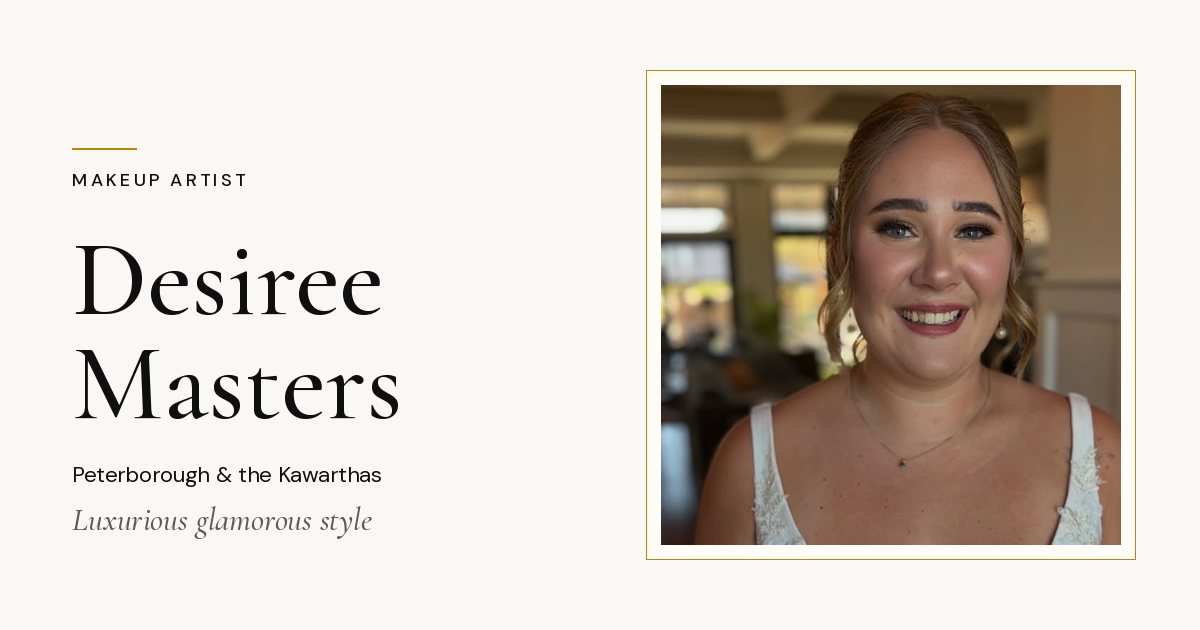
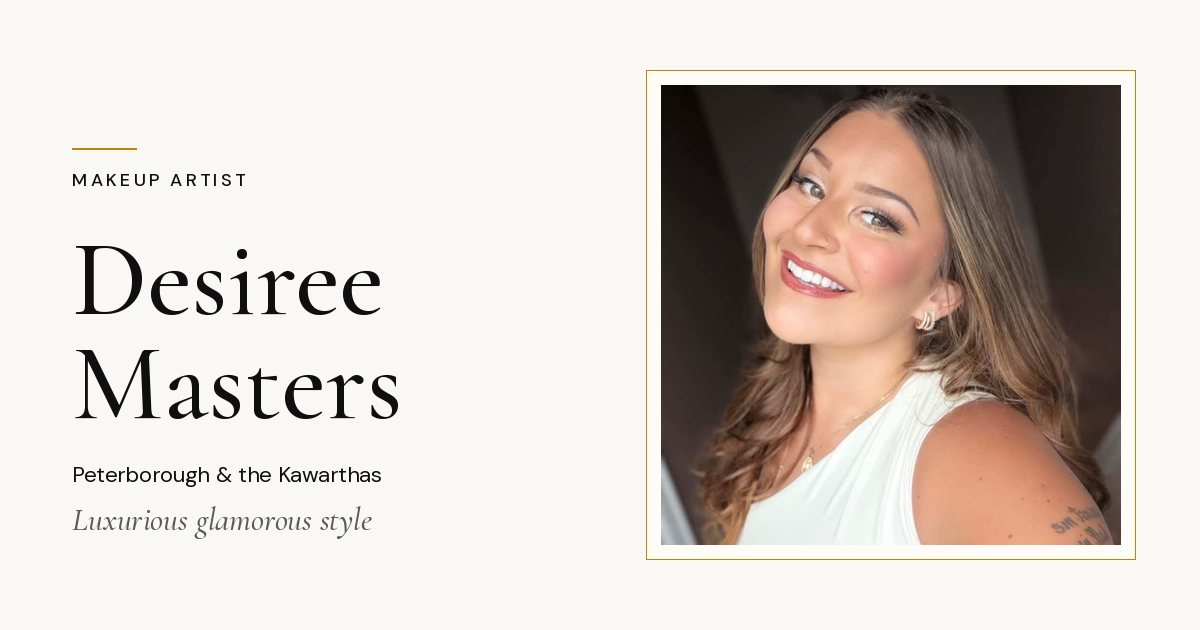
Show every Desiree demo photo whole, and use her portrait in the hero. (#43)
Gallery frames were letting side-by-side Instagram crops overflow the phone, so the outer face was cut off. Images now keep their real shape inside the gold frame, and the hero, About section, and link preview use Desiree's own portrait.

Changed region(s): [[0.5242, 0.1206, 0.9558, 0.8746]]

diff --git a/desiree-masters-mua-demo/index.html b/desiree-masters-mua-demo/index.html
@@ -12,7 +12,7 @@
   <link rel="apple-touch-icon" href="assets/apple-touch.png">
   <link rel="preload" as="font" href="assets/fonts/cormorant.woff2" type="font/woff2" crossorigin>
   <link rel="preload" as="font" href="assets/fonts/dm-sans.woff2" type="font/woff2" crossorigin>
-  <link rel="preload" as="image" href="assets/abbie.webp" type="image/webp" fetchpriority="high">
+  <link rel="preload" as="image" href="assets/desiree.webp" type="image/webp" fetchpriority="high">
   <meta property="og:title" content="Desiree Masters Makeup Artist">
   <meta property="og:description" content="Luxurious glamorous style for bridal, prom, photo shoots, and special events. Peterborough and the Kawarthas. Preview only.">
   <meta property="og:type" content="website">
@@ -20,7 +20,7 @@
   <meta property="og:image" content="https://use1app.com/desiree-masters-mua-demo/assets/og.jpg">
   <meta property="og:image:width" content="1200">
   <meta property="og:image:height" content="630">
-  <meta property="og:image:alt" content="Desiree Masters Makeup Artist. A framed bridal portrait on an ivory background.">
+  <meta property="og:image:alt" content="Desiree Masters, makeup artist, in a framed portrait on an ivory background.">
   <meta property="og:locale" content="en_CA">
   <meta name="twitter:card" content="summary_large_image">
   <meta name="twitter:title" content="Desiree Masters Makeup Artist">
@@ -70,11 +70,11 @@
         <figure class="hero-frame">
           <div class="mat">
             <picture>
-              <source srcset="assets/abbie.webp" type="image/webp">
-              <img src="assets/abbie.jpg" width="640" height="640" alt="Close portrait of a smiling bride with blonde waves, defined lashes, a berry lip, pearl earrings, and a white lace dress." fetchpriority="high" decoding="async">
+              <source srcset="assets/desiree.webp" type="image/webp">
+              <img src="assets/desiree.jpg" width="1206" height="1205" alt="Desiree Masters, smiling, with long highlighted brown hair and a white sleeveless top." fetchpriority="high" decoding="async">
             </picture>
           </div>
-          <figcaption>Bridal · November 2026</figcaption>
+          <figcaption>Desiree Masters</figcaption>
         </figure>
         <div class="doors">
           <a class="door" href="book/?door=weddings">
@@ -378,9 +378,18 @@
           <p class="services-line">Bridal · Prom · Photo shoots · Special Events</p>
           <p style="margin-top:14px">The public bio line ends, as captured, at “Peterborough &amp; The…” Her posts place the work in Peterborough and the Kawarthas, and mention Lindsay and Little Britain.</p>
           <p style="margin-top:14px">The rest of her story — how she came to the work, and what she wants someone to feel in the chair — is still to be written with her. <span class="ph">Placeholder</span></p>
-          <p class="note" style="margin-top:14px">A portrait of Desiree is not on this preview. The photographs are of clients.</p>
         </div>
-        <aside class="about-card">
+        <aside>
+          <figure class="about-portrait">
+            <div class="mat">
+              <picture>
+                <source srcset="assets/desiree.webp" type="image/webp">
+                <img src="assets/desiree.jpg" width="1206" height="1205" alt="Desiree Masters, smiling, with long highlighted brown hair and a white sleeveless top." loading="lazy" decoding="async">
+              </picture>
+            </div>
+            <figcaption>Desiree Masters</figcaption>
+          </figure>
+          <div class="about-card">
           <p class="shot-kicker">Instagram · 12 Nov 2026</p>
           <p class="stat">761</p>
           <p>followers</p>
@@ -388,6 +397,7 @@
           <p>posts</p>
           <p style="margin-top:16px"><a href="https://www.instagram.com/desireemastersmua/" target="_blank" rel="noopener noreferrer">@desireemastersmua<span class="visually-hidden"> (opens in a new tab)</span></a></p>
           <p><a href="https://www.facebook.com/DesireeMastersMakeup" target="_blank" rel="noopener noreferrer">Facebook<span class="visually-hidden"> (opens in a new tab)</span></a></p>
+          </div>
         </aside>
       </div>
     </section>

diff --git a/desiree-masters-mua-demo/css/styles.css b/desiree-masters-mua-demo/css/styles.css
@@ -37,6 +37,8 @@ body {
 
 img { max-width: 100%; height: auto; }
 
+picture { display: block; max-width: 100%; }
+
 [hidden] { display: none !important; }
 
 button, input, select, textarea { font: inherit; color: inherit; }
@@ -415,7 +417,12 @@ h3 {
   align-items: center;
 }
 
-.hero-frame { width: min(100%, 420px); }
+.hero-frame {
+  width: min(100%, 460px);
+  max-width: 100%;
+  min-width: 0;
+  justify-self: center;
+}
 
 .hero-frame figcaption {
   margin-top: 8px;
@@ -427,18 +434,33 @@ h3 {
 }
 
 .mat {
+  box-sizing: border-box;
+  width: 100%;
+  max-width: 100%;
+  min-width: 0;
   background: var(--paper);
   padding: 10px;
   border: 1px solid var(--gold-line);
   box-shadow: 0 18px 40px rgba(20, 16, 8, 0.05);
-  max-width: 640px;
 }
 
-.mat picture,
+.shot-open > .mat { flex: 1 1 auto; }
+
+.mat picture {
+  display: block;
+  max-width: 100%;
+  min-width: 0;
+  line-height: 0;
+  outline: 1px solid rgba(15, 15, 15, 0.14);
+}
+
 .mat img {
   display: block;
   width: 100%;
+  max-width: 100%;
   height: auto;
+  object-fit: contain;
+  object-position: center;
 }
 
 .doors {
@@ -533,16 +555,21 @@ h3 {
 
 .gallery {
   display: grid;
+  grid-template-columns: minmax(0, 1fr);
   gap: 26px;
+  min-width: 0;
 }
 
-.shot { margin: 0; min-width: 0; }
+.shot { margin: 0; min-width: 0; max-width: 100%; }
 
 .shot[hidden] { display: none !important; }
 
 .shot-open {
-  display: block;
+  display: flex;
+  flex-direction: column;
   width: 100%;
+  max-width: 100%;
+  min-width: 0;
   padding: 0;
   border: 0;
   background: transparent;
@@ -584,8 +611,18 @@ h3 {
 }
 
 .invest-photos figure {
-  flex: 0 0 min(72vw, 240px);
+  flex: none;
+  width: min(100%, 320px);
+  min-width: 0;
   scroll-snap-align: start;
+}
+
+@media (max-width: 899px) {
+  .invest-photos {
+    display: grid;
+    grid-template-columns: minmax(0, 1fr);
+    overflow: visible;
+  }
 }
 
 .invest-photos figure { margin: 0; min-width: 0; }
@@ -822,8 +859,9 @@ h3 {
   padding: 0;
   background: transparent;
   color: var(--ink);
-  width: fit-content;
-  max-width: min(692px, calc(100vw - 20px));
+  width: min(692px, calc(100vw - 20px));
+  max-width: calc(100vw - 20px);
+  box-sizing: border-box;
 }
 
 .lightbox::backdrop { background: rgba(15, 15, 15, 0.78); }
@@ -832,6 +870,8 @@ h3 {
   background: var(--paper);
   border: 1px solid var(--gold-line);
   padding: 14px;
+  max-width: 100%;
+  box-sizing: border-box;
 }
 
 .lb-top {
@@ -844,12 +884,13 @@ h3 {
 
 .lb-card img {
   display: block;
-  width: auto;
+  width: 100%;
   height: auto;
-  max-width: min(640px, 100%);
-  max-height: min(640px, 62vh);
+  max-width: 100%;
+  max-height: none;
   margin: 0 auto;
   object-fit: contain;
+  object-position: center;
 }
 
 .lb-caption { margin-top: 12px; }
@@ -1244,8 +1285,29 @@ body.is-booking { padding-bottom: calc(108px + env(safe-area-inset-bottom, 0px))
   .travel-note { grid-template-columns: 1fr auto; align-items: end; }
 }
 
+.about-portrait {
+  width: min(100%, 360px);
+  max-width: 100%;
+  margin: 0 0 16px;
+}
+
+.about-portrait figcaption {
+  margin-top: 8px;
+  font-family: var(--mono);
+  font-size: 0.68rem;
+  letter-spacing: 0.12em;
+  text-transform: uppercase;
+  color: var(--muted);
+}
+
+@media (max-width: 899px) {
+  .hero-copy { width: 100%; }
+  .hero-frame { order: -1; justify-self: center; }
+  .doors { width: 100%; }
+}
+
 @media (min-width: 720px) {
-  .gallery { grid-template-columns: 1fr 1fr; align-items: start; }
+  .gallery { grid-template-columns: minmax(0, 1fr) minmax(0, 1fr); align-items: start; }
 
   .shot-lead {
     grid-column: 1 / -1;
@@ -1275,7 +1337,7 @@ body.is-booking { padding-bottom: calc(108px + env(safe-area-inset-bottom, 0px))
     align-items: end;
   }
 
-  .hero-frame { justify-self: end; }
+  .hero-frame { justify-self: end; order: 0; }
 
   .doors { grid-column: 1 / -1; }
 

diff --git a/desiree-masters-mua-demo/book/index.html b/desiree-masters-mua-demo/book/index.html
@@ -19,7 +19,7 @@
   <meta property="og:image" content="https://use1app.com/desiree-masters-mua-demo/assets/og.jpg">
   <meta property="og:image:width" content="1200">
   <meta property="og:image:height" content="630">
-  <meta property="og:image:alt" content="Desiree Masters Makeup Artist. A framed bridal portrait on an ivory background.">
+  <meta property="og:image:alt" content="Desiree Masters, makeup artist, in a framed portrait on an ivory background.">
   <meta property="og:locale" content="en_CA">
   <meta name="twitter:card" content="summary_large_image">
   <meta name="twitter:title" content="Check your date · Desiree Masters Makeup Artist">

diff --git a/desiree-masters-mua-demo/js/site.js b/desiree-masters-mua-demo/js/site.js
@@ -105,8 +105,8 @@
     var img = shot.querySelector("img");
     lbImg.src = img.currentSrc || img.getAttribute("src");
     lbImg.alt = img.getAttribute("alt") || "";
-    lbImg.width = img.getAttribute("width") || 640;
-    lbImg.height = img.getAttribute("height") || 640;
+    lbImg.removeAttribute("width");
+    lbImg.removeAttribute("height");
     lbKicker.textContent = shot.getAttribute("data-kicker") || "";
     lbCaption.textContent = shot.getAttribute("data-caption") || "";
     var link = shot.getAttribute("data-link");

diff --git a/desiree-masters-mua-demo/SOURCE-NOTES.md b/desiree-masters-mua-demo/SOURCE-NOTES.md
@@ -28,13 +28,16 @@ Instagram logged-out crops, about 640 pixels square. Committed as the original J
 
 | File | What it is |
 |---|---|
-| `abbie.jpg` | Bridal client Abbie, 3 Nov 2026. Post https://www.instagram.com/desireemastersmua/p/DfSsefHnxZj/ . She is described as a fellow tradeswoman in the beauty industry. Hair that morning was credited to another artist; the handle is not printed. |
+| `desiree.jpg` | Desiree herself. Sent by Tony 12 Nov 2026, 1206×1205, black bars already cropped off. Used for the hero, the About portrait, and `og.jpg`. | 
+| `abbie.jpg` | Bridal client Abbie, 3 Nov 2026. Post https://www.instagram.com/desireemastersmua/p/DfSsefHnxZj/ . She is described as a fellow tradeswoman in the beauty industry. Hair that morning was credited to another artist; the handle is not printed. Shown in the gallery, not as Desiree. |
 | `amanda.jpg` | Amanda, 12 Oct 2026. Romantic soft glam, glitter setting spray. https://www.instagram.com/desireemastersmua/p/DeZZyVFkRRJ/ |
 | `rebecca-preview.jpg` | Rebecca’s bridal preview, 15 Sep 2026. Soft and bronzed, cat-eye lashes, for an October wedding. Before and after. https://www.instagram.com/desireemastersmua/p/DdUyK2EH_Tn/ |
 | `mother-of-bride.jpg` | Mother of the bride, 30 Aug 2026. Soft bronzed glam, defined darker brows, eyes made to pop, colours for a rusty dress. https://www.instagram.com/desireemastersmua/p/Dcq0_4nkQwq/ |
 | `bridal-2024-01.jpg`, `bridal-2024-02.jpg`, `bridal-2024-03.jpg` | Bridal photographs from October 2024. The visible captions did not name the clients. The community-vote hashtags on one of those posts are not mentioned, and the page does not say she won anything. |
 
-`og.jpg` is a preview card made from the Abbie photograph. It is not a new photograph of her. `favicon.svg` / `favicon.png` are a plain double-line mark for the browser tab, not her logo.
+`og.jpg` is a preview card made from Desiree’s own portrait. `favicon.svg` / `favicon.png` are a plain double-line mark for the browser tab, not her logo.
+
+Photographs are shown at their natural shape. Frames wrap the image box. Nothing is cropped or stretched.
 
 ### Kind words, verbatim
 
